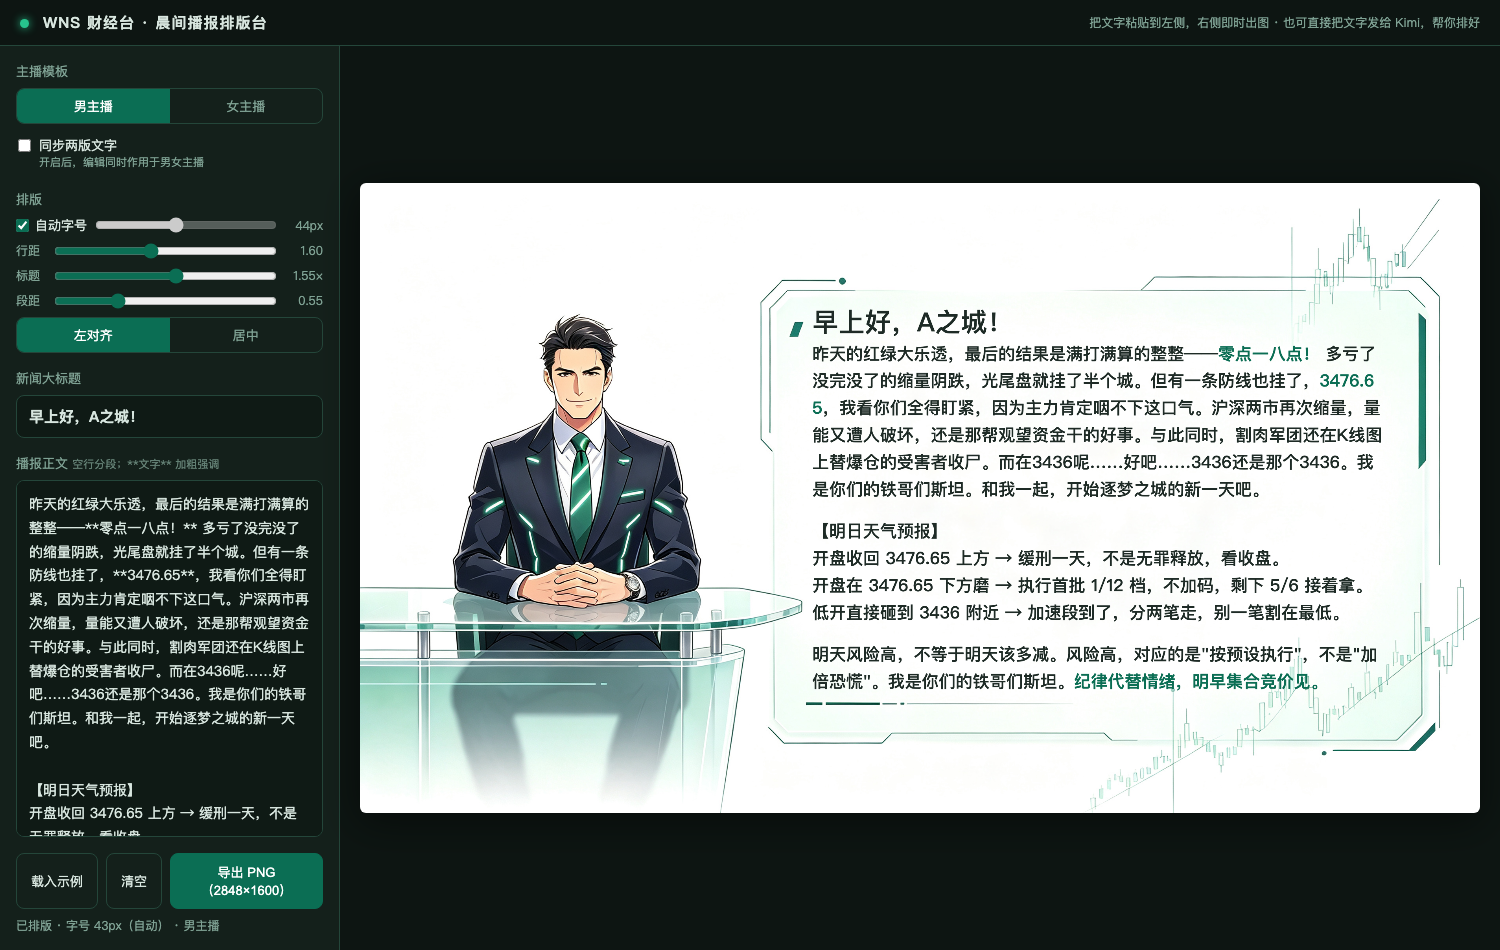
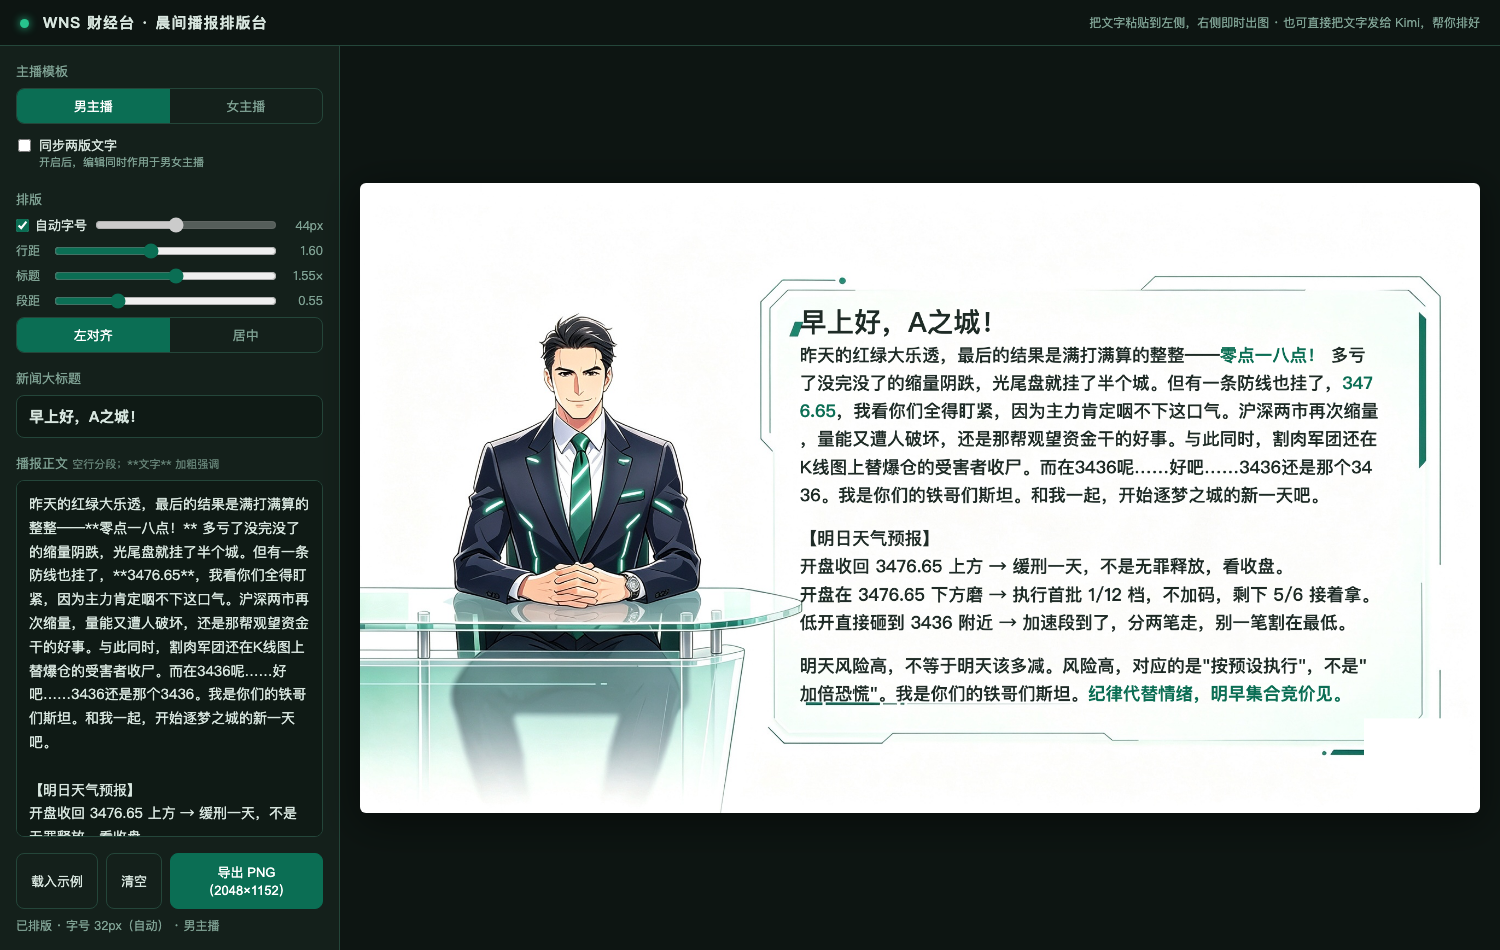
更换无股市走势图新模板（2048×1152）：重检测文字区坐标、去水印、同步更新测试与README

diff --git a/app.js b/app.js
@@ -1,11 +1,11 @@
 /* WNS 财经台排版台
- * 画布与模板同尺寸 2848×1600，文字区坐标来自对模板图的像素级检测：
- * 边框左缘 x≈1050 / 顶缘 y≈237 / 底缘 y≈1414 / 右侧装饰条 x≈2698-2746
- * 安全文字区：x 1150→2600，y 320→1360
+ * 画布与模板同尺寸 2048×1152，文字区坐标来自对模板图的像素级检测：
+ * 边框左缘 x≈732 / 顶缘 y≈170 / 底缘 y≈1021 / 右侧装饰条 x≈1935
+ * 安全文字区：x 804→1864，y 230→982
  */
 
-const W = 2848, H = 1600;
-const TEXT_X = 1150, TEXT_Y = 320, TEXT_W = 1450, TEXT_H = 1040;
+const W = 2048, H = 1152;
+const TEXT_X = 804, TEXT_Y = 230, TEXT_W = 1060, TEXT_H = 752;
 
 const TPL = {
   male:   "assets/anchor-male.png",

diff --git a/index.html b/index.html
@@ -70,14 +70,14 @@
       <div class="btn-row">
         <button class="btn ghost" id="sampleBtn">载入示例</button>
         <button class="btn ghost" id="clearBtn">清空</button>
-        <button class="btn primary" id="exportBtn">导出 PNG（2848×1600）</button>
+        <button class="btn primary" id="exportBtn">导出 PNG（2048×1152）</button>
       </div>
       <div class="status" id="status"></div>
     </section>
   </aside>
 
   <section class="preview">
-    <canvas id="board" width="2848" height="1600"></canvas>
+    <canvas id="board" width="2048" height="1152"></canvas>
   </section>
 </main>
 

diff --git a/README.md b/README.md
@@ -13,7 +13,7 @@
 - **独立稿件**：两版文字各自保存、互不影响；可开启「同步」共用一份
 - **排版控制**：字号（自动适配 / 手动 + 过大自动兜底）、行距、标题倍数、段距、左对齐 / 居中
 - **加粗强调**：`**文字**` 标绿加粗，兼容全角 `＊＊`
-- **一键导出 PNG**：2848×1600 高清原图，文字为矢量级清晰
+- **一键导出 PNG**：2048×1152 高清原图，文字为矢量级清晰
 - **本地持久化**：所有文字与排版设置自动保存，刷新不丢
 - **自动化回归测试**：24 项端到端测试覆盖全部交互
 
@@ -48,7 +48,7 @@ npm test           # 运行 24 项回归测试（需先 npm install）
 | 排版 | 自动字号（按文字量适配）/ 手动滑杆（过大自动兜底）；行距、标题倍数、段距；左对齐 / 居中 |
 | 新闻大标题 | 单行，按「标题倍数」放大渲染；**留空则不显示** |
 | 播报正文 | 多行，空行分段；`**文字**` 加粗标绿 |
-| 导出 PNG | 下载 2848×1600 成品图 |
+| 导出 PNG | 下载 2048×1152 成品图 |
 
 **排版建议**：长稿（300 字以上）用自动字号 + 行距 1.75 + 左对齐；短稿关掉自动，手动 50px+ 居中更有冲击力。
 
@@ -58,7 +58,7 @@ npm test           # 运行 24 项回归测试（需先 npm install）
 ├── index.html              # 页面
 ├── styles.css              # 样式
 ├── app.js                  # 排版引擎（自动适配字号 / 换行 / 加粗解析 / 画布渲染）
-├── assets/                 # 主播模板图（2848×1600）
+├── assets/                 # 主播模板图（2048×1152）
 ├── scripts/dev-server.mjs  # 静态开发服务器（支持 --port/--host 传参）
 ├── tests/e2e.mjs           # Puppeteer 端到端回归测试
 ├── docs/screenshot.png     # 效果图
@@ -67,8 +67,8 @@ npm test           # 运行 24 项回归测试（需先 npm install）
 
 ## 技术要点
 
-- 文字区坐标来自对模板图的像素级检测（边框左缘 x≈1050 / 顶缘 y≈237 / 底缘 y≈1414 / 右侧装饰条 x≈2698–2746），安全文字区 x 1150–2600，y 320–1360
-- 画布与模板同尺寸（2848×1600），导出即原图，无二次压缩
+- 文字区坐标来自对模板图的像素级检测（边框左缘 x≈732 / 顶缘 y≈170 / 底缘 y≈1021 / 右侧装饰条 x≈1935–1952），安全文字区 x 804–1864，y 230–982
+- 画布与模板同尺寸（2048×1152），导出即原图，无二次压缩
 - 字号自动适配：二分查找最大可容纳字号；手动模式超出时自动兜底
 - 逐字贪心换行，兼容中英文混排与加粗分段
 
